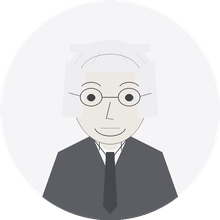
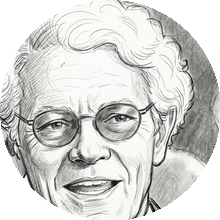
林區頭像:改用使用者提供的鉛筆素描肖像(質感與六位統一)

diff --git a/morning.html b/morning.html
@@ -89,7 +89,7 @@ footer{margin-top:36px;font-size:11.5px;color:var(--sub);line-height:1.7;border-
 <div class="hist" id="hist"></div>
 
 <footer>本頁由智囊團系統每日 09:00 自動更新。所有數字來自公開資料(FinMind、Yahoo Finance),可驗證;預測以情境與觸發條件表達,不構成投資建議。準確率=已到期預測的命中比例,每月檢討一次並公布於成員名下。
-<br><br>頭像:Munger © Nick(CC BY 2.0)、Dalio © Web Summit(CC BY 2.0)、Marks © kellywritershouse(CC BY 2.0)、Kostolany © Bennys Buidl Fabrik(CC BY-SA 4.0)、Buffett(U.S. ITA)與 Graham 為公共領域,以上為 Wikimedia Commons 授權照片之素描化衍生作品;彼得・林區為本工具自製之風格化示意人像(非肖像照)。</footer>
+<br><br>頭像:Munger © Nick(CC BY 2.0)、Dalio © Web Summit(CC BY 2.0)、Marks © kellywritershouse(CC BY 2.0)、Kostolany © Bennys Buidl Fabrik(CC BY-SA 4.0)、Buffett(U.S. ITA)與 Graham 為公共領域,以上為 Wikimedia Commons 授權照片之素描化衍生作品;彼得・林區為使用者提供之素描肖像。</footer>
 </div>
 
 <script>
